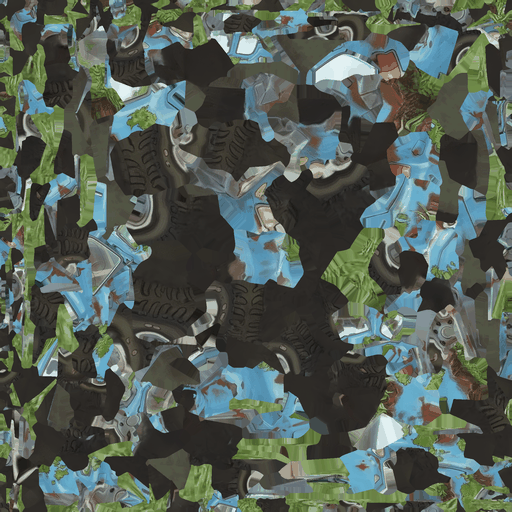
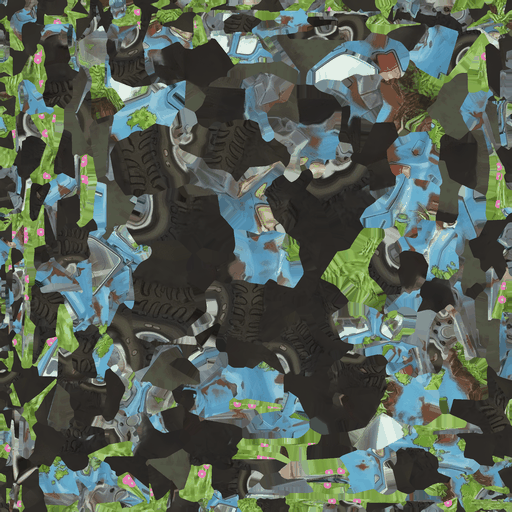
OBJETOS_3D carro, rodada 2 do revisor: verdes vivos, flores no teto, farois amarelos (mascaras em UV), altura 4,8; registro D-OBJ-CARRO e secao 12

diff --git a/web/app/src/telas/pet/ilha/modelos.ts b/web/app/src/telas/pet/ilha/modelos.ts
@@ -56,9 +56,10 @@ export type NomeItem = keyof typeof ITENS_MODELOS;
 export const ENFEITES_MODELOS = {
   poste: { arquivos: ["poste/poste.gltf"], altura: 4.5, vento: 0, sombra: 0.4, baixo: false },
   /* o carro: o hatch retro azul com ferrugem e o jardim no teto, gerado pela Meshy (retrabalho de 2026-11-07, secao 12; a caminhonete da
-     E2 saiu); maior que um carro na escala do pet, como um brinquedo, para ser visto na beira do plato. A altura sobe de 3,4 para 4,5 para o
-     comprimento ficar o da caminhonete (~5,8): o hatch e mais alto que comprido (PROPOSTO, SEM FONTE) */
-  carro: { arquivos: ["carro/carro.gltf"], altura: 4.5, vento: 0, sombra: 2.3, baixo: false },
+     E2 saiu); maior que um carro na escala do pet, como um brinquedo, para ser visto na beira do plato. A altura sobe de 3,4 para 4,8: 4,5
+     deixa o comprimento o da caminhonete (~5,8; o hatch e mais alto que comprido) e o revisor pediu 5 a 10 % a mais, para as rodas lerem
+     por cima da barraca (PROPOSTO, SEM FONTE) */
+  carro: { arquivos: ["carro/carro.gltf"], altura: 4.8, vento: 0, sombra: 2.3, baixo: false },
   /* a geladeira com o vaso e o trilho com o vagao (E3), com os tracos de nanquim na textura; na escala de brinquedo do carro */
   geladeira: { arquivos: ["geladeira/geladeira.gltf"], altura: 3.0, vento: 0, sombra: 1.4, baixo: false },
   trilho: { arquivos: ["trilho/trilho.gltf"], altura: 2.0, vento: 0, sombra: 2.6, baixo: false },

diff --git a/docs/objetos3d/carro/textura_carro.py b/docs/objetos3d/carro/textura_carro.py
@@ -5,14 +5,60 @@ Adaptado do textura_portao.py da sessao do portao, sem a mascara de luz (o carro
   - as manchas brancas do portao NAO saem aqui: no carro elas sao o reflexo do vidro das janelas (os riscos brancos do esboco), conferido
     pintando-as na textura; so contam no print;
   - o fundo fora das ilhas de UV e preenchido pela vizinhanca, para o mipmap nao puxar o fundo para dentro da emenda.
+Com as mascaras do mascaras_carro.py (opcional), o retoque leve pedido pelo revisor (APROVA COM RESSALVA, rodada 1), sem achatar nada:
+  - o musgo e a grama (os verdes) mais vivos, para chegar ao verde do esboco (SAT_VERDE, VAL_VERDE);
+  - flores rosa pequenas (FLORES discos, sementes fixas) sobre as laminas da grama do teto, que a malha da Meshy perdeu;
+  - os farois (os bege da mascara da frente) puxados para o amarelo do esboco (COR_FAROL, MISTURA_FAROL).
 Depois o lado cai para LADO e o PNG vai a paleta de 256 cores com difusao (o detalhe pintado fica; e so para caber no orcamento de 300 KB
 do web/app/test/ilha_enfeites.test.ts, na mesma densidade do portao e da barraca).
 
-uso (da raiz): python -I docs/objetos3d/carro/textura_carro.py <textura_base_color.png> <carro_cor.png> [<lado>]
+uso (da raiz): python -I docs/objetos3d/carro/textura_carro.py <textura_base_color.png> <carro_cor.png> [<lado> [<mascaras.png>]]
 """
 import sys
 import numpy as np
 from PIL import Image
+
+# o retoque (PROPOSTO, SEM FONTE: ajustado olhando a vitrine contra o esboco)
+SAT_VERDE, VAL_VERDE = 1.25, 1.15
+FLORES, RAIO_FLOR, SEMENTE_FLORES = 60, 16, 20261108
+ROSA, MIOLO = np.array([238, 122, 196], np.float32), np.array([255, 236, 150], np.float32)
+COR_FAROL, MISTURA_FAROL = np.array([255, 222, 128], np.float32), 0.8
+
+
+def hsv(rgb: np.ndarray) -> tuple[np.ndarray, np.ndarray, np.ndarray]:
+    f = rgb.astype(np.float32) / 255
+    mx, mn = f.max(-1), f.min(-1)
+    d = np.maximum(mx - mn, 1e-6)
+    r, g, b = f[..., 0], f[..., 1], f[..., 2]
+    h = np.where(mx == r, ((g - b) / d) % 6, np.where(mx == g, (b - r) / d + 2, (r - g) / d + 4)) / 6
+    return h, np.where(mx > 0, (mx - mn) / np.maximum(mx, 1e-6), 0), mx
+
+
+def retocar(rgb: np.ndarray, mascaras: str) -> np.ndarray:
+    m = np.asarray(Image.open(mascaras).convert("RGB").resize(rgb.shape[1::-1], Image.NEAREST))
+    teto, frente = (m[..., 0] > 0) | (m[..., 2] > 0), m[..., 1] > 0
+    out = rgb.astype(np.float32)
+    h, s, v = hsv(rgb)
+    farol = frente & (h > 0.05) & (h < 0.2) & (s > 0.08) & (s < 0.7) & (v > 0.45)
+    verde = (h > 0.17) & (h < 0.45) & (s > 0.3) & (v < 0.9) & ~farol
+    media = out[verde].mean(-1, keepdims=True)
+    out[verde] = np.clip((media + (out[verde] - media) * SAT_VERDE) * VAL_VERDE, 0, 255)
+    out[farol] = out[farol] * (1 - MISTURA_FAROL) + COR_FAROL * MISTURA_FAROL * (v[farol][:, None] / v[farol].max())
+    ys, xs = np.nonzero(teto & verde)
+    rng = np.random.default_rng(SEMENTE_FLORES)
+    yy, xx = np.mgrid[-RAIO_FLOR:RAIO_FLOR + 1, -RAIO_FLOR:RAIO_FLOR + 1]
+    disco, miolo = (yy ** 2 + xx ** 2) <= RAIO_FLOR ** 2, (yy ** 2 + xx ** 2) <= (RAIO_FLOR // 3) ** 2
+    for i in rng.choice(len(ys), size=min(FLORES, len(ys)), replace=False):
+        y, x = ys[i], xs[i]
+        sl = (slice(max(0, y - RAIO_FLOR), y + RAIO_FLOR + 1), slice(max(0, x - RAIO_FLOR), x + RAIO_FLOR + 1))
+        dy0, dx0 = sl[0].start - (y - RAIO_FLOR), sl[1].start - (x - RAIO_FLOR)
+        alvo = out[sl]
+        d = disco[dy0:dy0 + alvo.shape[0], dx0:dx0 + alvo.shape[1]] & teto[sl]
+        c = miolo[dy0:dy0 + alvo.shape[0], dx0:dx0 + alvo.shape[1]] & teto[sl]
+        alvo[d] = ROSA
+        alvo[c] = MIOLO
+    print("RETOQUE verdes", int(verde.sum()), "px; farois", int(farol.sum()), "px; flores", min(FLORES, len(ys)))
+    return np.clip(out, 0, 255).astype(np.uint8)
 
 
 def crescer(rgb: np.ndarray, vazio: np.ndarray, passos: int) -> np.ndarray:
@@ -35,7 +81,7 @@ def crescer(rgb: np.ndarray, vazio: np.ndarray, passos: int) -> np.ndarray:
     return rgb
 
 
-def main(ent: str, sai: str, lado: int = 512) -> None:
+def main(ent: str, sai: str, lado: int = 512, mascaras: str | None = None) -> None:
     a = np.asarray(Image.open(ent).convert("RGBA"))
     f = a[..., :3].astype(np.float32) / 255
     mx, mn = f.max(-1), f.min(-1)
@@ -45,6 +91,8 @@ def main(ent: str, sai: str, lado: int = 512) -> None:
     print("LIMPAR fundo", round(float(fundo.mean()) * 100, 1), "%; manchas brancas", int(branco.sum()), "px")
     rgb = crescer(a[..., :3], fundo, 16)
     rgb = np.clip(rgb, 0, 255).astype(np.uint8)
+    if mascaras:
+        rgb = retocar(rgb, mascaras)
     cor = Image.fromarray(rgb, "RGB").resize((lado, lado), Image.LANCZOS)
     q = cor.quantize(colors=256, method=Image.Quantize.MEDIANCUT, dither=Image.Dither.FLOYDSTEINBERG)
     q.save(sai, optimize=True)
@@ -52,4 +100,4 @@ def main(ent: str, sai: str, lado: int = 512) -> None:
 
 
 if __name__ == "__main__":
-    main(sys.argv[1], sys.argv[2], int(sys.argv[3]) if len(sys.argv) > 3 else 512)
+    main(sys.argv[1], sys.argv[2], int(sys.argv[3]) if len(sys.argv) > 3 else 512, sys.argv[4] if len(sys.argv) > 4 else None)

diff --git a/docs/objetos3d/carro/mascaras_carro.py b/docs/objetos3d/carro/mascaras_carro.py
@@ -1,0 +1,64 @@
+# As mascaras de regiao do carro, no espaco da textura (docs/TAREFA_V3_MUNDO_ENFEITES.md, secao 12), para o retoque leve do textura_carro.py
+# pedido pelo revisor (APROVA COM RESSALVA): pela geometria da malha da Meshy (girada como no acabar_carro.py, a frente em -y do Blender),
+# cada triangulo cai numa regiao e e pintado na mascara pelos UVs dele:
+#   R: a grama do teto (o centro do triangulo acima de Z_GRAMA);
+#   G: a frente na altura dos farois (o centro com y < Y_FRENTE e z entre Z_FAROL);
+#   B: a boca do teto (o centro acima de Z_TETO e a menos de R_BOCA do pe da grama, no plano).
+# Os limiares sao PROPOSTO, SEM FONTE: medidos no histograma das alturas desta malha (o teto em ~0,31 a 0,46, a grama acima).
+# uso (da raiz): blender -b --factory-startup --python docs/objetos3d/carro/mascaras_carro.py -- <meshy.glb> <mascaras.png> [lado]
+import math, sys, bpy
+import numpy as np
+from mathutils import Matrix
+
+args = sys.argv[sys.argv.index("--") + 1:]
+ent, sai = args[:2]
+LADO = int(args[2]) if len(args) > 2 else 2048
+Z_GRAMA, Z_TETO, R_BOCA, Y_FRENTE, Z_FAROL = 0.48, 0.38, 0.22, -0.80, (-0.55, -0.05)
+
+bpy.ops.wm.read_factory_settings(use_empty=True)
+bpy.ops.import_scene.gltf(filepath=ent)
+o = [p for p in bpy.context.scene.objects if p.type == "MESH"][0]
+o.data.transform(o.matrix_world)
+o.data.transform(Matrix.Rotation(math.radians(90), 4, "Z"))
+me = o.data
+me.calc_loop_triangles()
+uv = me.uv_layers.active.data
+pe = [v.co for v in me.vertices if v.co.z > Z_GRAMA]
+cx, cy = sum(p.x for p in pe) / len(pe), sum(p.y for p in pe) / len(pe)
+print("MASCARA pe da grama", round(cx, 3), round(cy, 3), len(pe), "vertices")
+m = np.zeros((LADO, LADO, 3), np.uint8)
+yy, xx = np.mgrid[0:LADO, 0:LADO]
+cont = [0, 0, 0]
+for t in me.loop_triangles:
+    c = sum((me.vertices[i].co for i in t.vertices), me.vertices[t.vertices[0]].co * 0) / 3
+    canais = []
+    if c.z > Z_GRAMA:
+        canais.append(0)
+    if c.y < Y_FRENTE and Z_FAROL[0] < c.z < Z_FAROL[1]:
+        canais.append(1)
+    if Z_TETO < c.z <= Z_GRAMA and math.hypot(c.x - cx, c.y - cy) < R_BOCA:
+        canais.append(2)
+    if not canais:
+        continue
+    p = [(uv[l].uv[0] * LADO, (1 - uv[l].uv[1]) * LADO) for l in t.loops]
+    x0, x1 = int(max(0, min(q[0] for q in p) - 1)), int(min(LADO - 1, max(q[0] for q in p) + 1))
+    y0, y1 = int(max(0, min(q[1] for q in p) - 1)), int(min(LADO - 1, max(q[1] for q in p) + 1))
+    (ax, ay), (bx, by), (qx, qy) = p
+    d = (by - qy) * (ax - qx) + (qx - bx) * (ay - qy)
+    if abs(d) < 1e-9:
+        continue
+    X, Y = xx[y0:y1 + 1, x0:x1 + 1] + 0.5, yy[y0:y1 + 1, x0:x1 + 1] + 0.5
+    w1 = ((by - qy) * (X - qx) + (qx - bx) * (Y - qy)) / d
+    w2 = ((qy - ay) * (X - qx) + (ax - qx) * (Y - qy)) / d
+    dentro = (w1 >= -0.02) & (w2 >= -0.02) & (1 - w1 - w2 >= -0.02)
+    for k in canais:
+        m[y0:y1 + 1, x0:x1 + 1, k][dentro] = 255
+        cont[k] += 1
+print("MASCARA triangulos: grama", cont[0], "frente", cont[1], "boca", cont[2])
+img = bpy.data.images.new("mascaras", LADO, LADO, alpha=False)
+px = np.concatenate([m[::-1].astype(np.float32) / 255, np.ones((LADO, LADO, 1), np.float32)], axis=2)
+img.pixels.foreach_set(px.ravel())
+img.filepath_raw = sai
+img.file_format = "PNG"
+img.save()
+print("MASCARA ok", sai)

diff --git a/docs/objetos3d/carro/publicar_carro.py b/docs/objetos3d/carro/publicar_carro.py
@@ -25,7 +25,8 @@ def main(gl: str, cor: str, lib: str) -> None:
         "tarefas_meshy": {"esboco": ESBOCO["id"], "vistas": SALDO["vistas"]["tarefa"], "malha": SALDO["malha"]["tarefa"]},
         "pipeline": ("docs/TAREFA_V3_MUNDO_ENFEITES.md, secao 12; docs/objetos3d/REFERENCIAS.md, secao 5: a malha da Meshy girada com a "
                      "frente em +z, os vertices repetidos soldados e as normais ponderadas (acabar_carro.py); a textura pintada da Meshy sem "
-                     "achatar, 512 px em paleta de 256 cores com difusao (textura_carro.py)"),
+                     "achatar, com o retoque leve do revisor nas mascaras do mascaras_carro.py (verdes mais vivos, flores rosa no teto, farois "
+                     "amarelos) e 512 px em paleta de 256 cores com difusao (textura_carro.py)"),
         "licenca": "License.txt ao lado",
     }
     if [i["uri"] for i in g.get("images", [])] != ["carro_cor.png"]:

diff --git a/docs/registro/2026-11.md b/docs/registro/2026-11.md
@@ -2808,3 +2808,33 @@ Conserto do achado D-LE-E2-9 (`docs/TAREFA_V3_LUTA_EFEITOS.md`), pedido pelo Mat
     0, e o B do dono aleatório com higiene e humor 100 %;
   - as linhas Elogios, Repreensões e as do bandit continuam na tabela; elogio e repreensão saem sempre 0, porque não são mais ações do dono.
 - **Desvio de forma:** o pet guardado para "Voltar ao pet anterior" passa a ser o pet de hoje (`motorReal()`), nunca o pet de teste do Lab.
+
+## 2026-11-08 — OBJETOS_3D, o carro retrabalhado (worker, Claude Code, Opus 5.5, branch `v3-objeto-carro`)
+
+Retrabalho do enfeite "carro" pela regra nova de `docs/objetos3d/REFERENCIAS.md`, seção 5, a partir do esboço 1 (o hatch retrô). Resumo em
+`docs/TAREFA_V3_MUNDO_ENFEITES.md`, seção 12.
+
+- **D-OBJ-CARRO-1, desvio de forma: a textura não é achatada, e o teste não precisou mudar.** O `web/app/test/ilha_enfeites.test.ts` não
+  confere a paleta dos enfeites; ele só limita triângulos, lado e bytes. A textura pintada da Meshy fica (ferrugem, lascas, musgo, vidro,
+  rodas); o `docs/enfeites/carro/consertar_carro.py` e a `paleta.json` da E2 ficam como histórico, sem uso.
+- **D-OBJ-CARRO-2, escolha: 512 px em paleta de 256 cores com difusão, como o portão e a barraca.** A textura de 2 048 px da Meshy não cabe
+  nos 300 KB do teste (glTF + bin + PNG). Em 512 px e 256 cores o total fica em 297 010 bytes (de 307 200); a densidade é a dos outros
+  objetos retrabalhados (REFERENCIAS, seção 5, item 4). **Custo de errar:** pouco; o detalhe pintado lê na vitrine e no jogo.
+- **D-OBJ-CARRO-3, interpretação: as "manchas brancas" do portão não saem no carro.** No carro elas são o reflexo do vidro das janelas
+  (conferido pintando-as na textura); tirá-las apagava o vidro do esboço.
+- **D-OBJ-CARRO-4, número escolhido: altura 3,4 → 4,8 (PROPOSTO, SEM FONTE).** O hatch é mais alto que comprido (1,29 contra 1,73 da
+  caminhonete): 4,5 mantém o comprimento de antes (~5,8 células); o revisor pediu 5 a 10 % a mais, para as rodas lerem por cima da
+  barraca. A grade e as posições não mudam (E-G0 e E-G10 passam).
+- **D-OBJ-CARRO-5, retoque leve por região (pedido do revisor, rodada 1):** máscaras em UV tiradas da geometria
+  (`docs/objetos3d/carro/mascaras_carro.py`): os verdes mais vivos, 60 flores rosa pequenas na grama do teto (a malha perdeu as flores do
+  esboço) e os faróis puxados para o amarelo. Os limiares são PROPOSTO, SEM FONTE.
+- **D-OBJ-CARRO-6, achados (fora do escopo, sem mudar):**
+  - **o carro fica atrás da barraca:** no layout mvp, ele cai a ~1 célula da barraca (o lugar do Diário, #667, chegou depois da E2). Na vista
+    padrão da tela Pet, antes e depois, o carro não aparece; com a câmera livre, a barraca cobre a roda traseira;
+  - **o Vite perde um arquivo do `public/`, se ele é apagado e recriado com o servidor ligado:** passa a devolver o HTML da SPA, e o carro sai
+    branco. Basta reiniciar o servidor; o `publicar_carro.py` apaga e recria os arquivos, como o do portão;
+  - **o `npm run tipos` falha no branch base `v3-objetos-retrabalho`:** a vitrine (`web/app/poc/vitrine/vitrine.ts`) usa o
+    `CONTORNO_DIGITAL` e a assinatura nova do `pos.desenhar`, que só existem no D5 (#692);
+  - **o mapa Digital do D5 não tem a câmera livre:** as capturas no jogo do Digital são do estado da main (sem o cel shading); o cel shading
+    aparece na vitrine, montada numa worktree de captura no D5.
+- **A Meshy:** 36 créditos, no teto da sessão (multivista 6 e malha 30; saldo 122 → 86; `docs/objetos3d/carro/saldo.json`).

diff --git a/docs/TAREFA_V3_MUNDO_ENFEITES.md b/docs/TAREFA_V3_MUNDO_ENFEITES.md
@@ -213,3 +213,29 @@ E-G9: dois draw calls a mais, de dia e de noite (80 → 81 e 101 → 103 em 390;
 `D:\Trab\digilab\capturas_enfeites\referencia_e3\` e `\e3\`). E-G11: o revisor reprovou o trilho e aprovou a geladeira com ressalva na
 rodada 1 (traços sujos, o trilho atrás do HUD); a rodada 2 está no corpo do PR. Os postes e o carro ficam sem traços nesta etapa.
 
+
+## 12. O carro retrabalhado (2026-11-08, worker, Claude Code, Opus 5.5, branch `v3-objeto-carro`)
+
+**O pedido:** o Matheus achou os objetos feios e "sem textura", e o carro "completamente sem detalhe" (a caminhonete da E2, achatada em 7
+cores). O retrabalho segue `docs/objetos3d/REFERENCIAS.md` (seção 5) e o esboço `docs/objetos3d/carro/esbocos/esboco_1_hatch_retro.png`: o
+hatch retrô azul com ferrugem, as rodas grandes, as janelas, os faróis, o jardim no teto e o musgo no capô.
+
+**Pela Meshy:** a multivista a partir do esboço (6 créditos) e a malha (30): 2 175 triângulos (teto 2 414 dos marcos). Saldo 122 → 86
+(`docs/objetos3d/carro/`, `saldo.json`).
+
+**O acabamento, por script (`docs/objetos3d/carro/`):**
+- `acabar_carro.py` (Blender 4.5 pela linha de comando): a malha girada 90°, com a frente em +z do glTF; os vértices repetidos soldados; as
+  normais suavizadas e ponderadas; a base no y = 0;
+- `textura_carro.py`: a textura pintada da Meshy sem achatar, 512 px em paleta de 256 cores, com um retoque leve nas máscaras do
+  `mascaras_carro.py`: os verdes mais vivos, flores rosa no teto e os faróis amarelos;
+- `publicar_carro.py`: a marca de IA no `asset.extras`, a troca em `web/app/public/enfeites/carro/` e o validador (0 erros, 0 avisos).
+
+**No jogo:** a altura vai de 3,4 para 4,8 (`ENFEITES_MODELOS`); a grade e as posições não mudam. São 297 010 bytes, de um teto de 307 200.
+
+**O revisor** (um subagente Sonnet que não fez o trabalho e viu só o esboço e as capturas) deu **APROVA COM RESSALVA** nas duas rodadas. Na
+rodada 1, pediu o teto, o musgo, os faróis e a escala; a rodada 2 fez o retoque e a altura. Ficam, porque só uma malha nova resolve:
+- as rodas encaixadas no corpo, com o pneu liso;
+- a boca escura do teto e o tufo estreito; as flores só leem na vitrine.
+
+As capturas (a prancha, a vitrine no D5, a Ilha e o Digital, antes e depois) estão fora do git, em `D:\Trab\digilab\capturas_objetos3d\carro\`.
+Os desvios estão em `docs/registro/2026-11.md`, D-OBJ-CARRO-1 a 6.

diff --git a/docs/REGISTRO_DESVIOS.md b/docs/REGISTRO_DESVIOS.md
@@ -555,6 +555,8 @@ de base em `docs/historico/registro_lotes.json`.
 - [2026-11-07 — UX_TELA_PET × LUGARES_3D, a mescla da `main` na `v3-ux-integra` (worker da mescla, Claude Code, Opus 5.5, branch `v3-ux-para-main`)](registro/2026-11.md)
 - [2026-11-07 — INFRA_AGENTES, o H11 do índice de desvios (especificador da frente, Claude Code, Opus 5.5, branch `v3-infra-agentes-h11`)](registro/2026-11.md)
 - [2026-11-07 — INDIVIDUALIDADE, I0: as decisões e a conferência das sondas (Claude Code, Opus 5.5, branch `v3-individualidade-i0`)](registro/2026-11.md)
+- [2026-11-07 — INDIVIDUALIDADE, I1: a bateria como ferramenta (Claude Code, Opus 5.5, branch `v3-individualidade-i1`)](registro/2026-11.md)
 - [2026-11-07 — LUTA_EFEITOS, E5 o nocaute e a câmera (worker, Claude Code, Opus 5.5, branch `v3-luta-efeitos-e5`)](registro/2026-11.md)
 - [2026-11-07 — CONVERSA_PET, DC3d, o porte da fala com conteúdo ao jogo (worker, Claude Code, Opus 5.5, branch `v3-conversa-dc3d-porte`)](registro/2026-11.md)
 - [2026-11-07 — LAB_CENARIOS, os Cenários do Laboratório na versão de hoje (worker, Claude Code, Opus 5.5, branch `v3-lab-cenarios`)](registro/2026-11.md)
+- [2026-11-08 — OBJETOS_3D, o carro retrabalhado (worker, Claude Code, Opus 5.5, branch `v3-objeto-carro`)](registro/2026-11.md)
